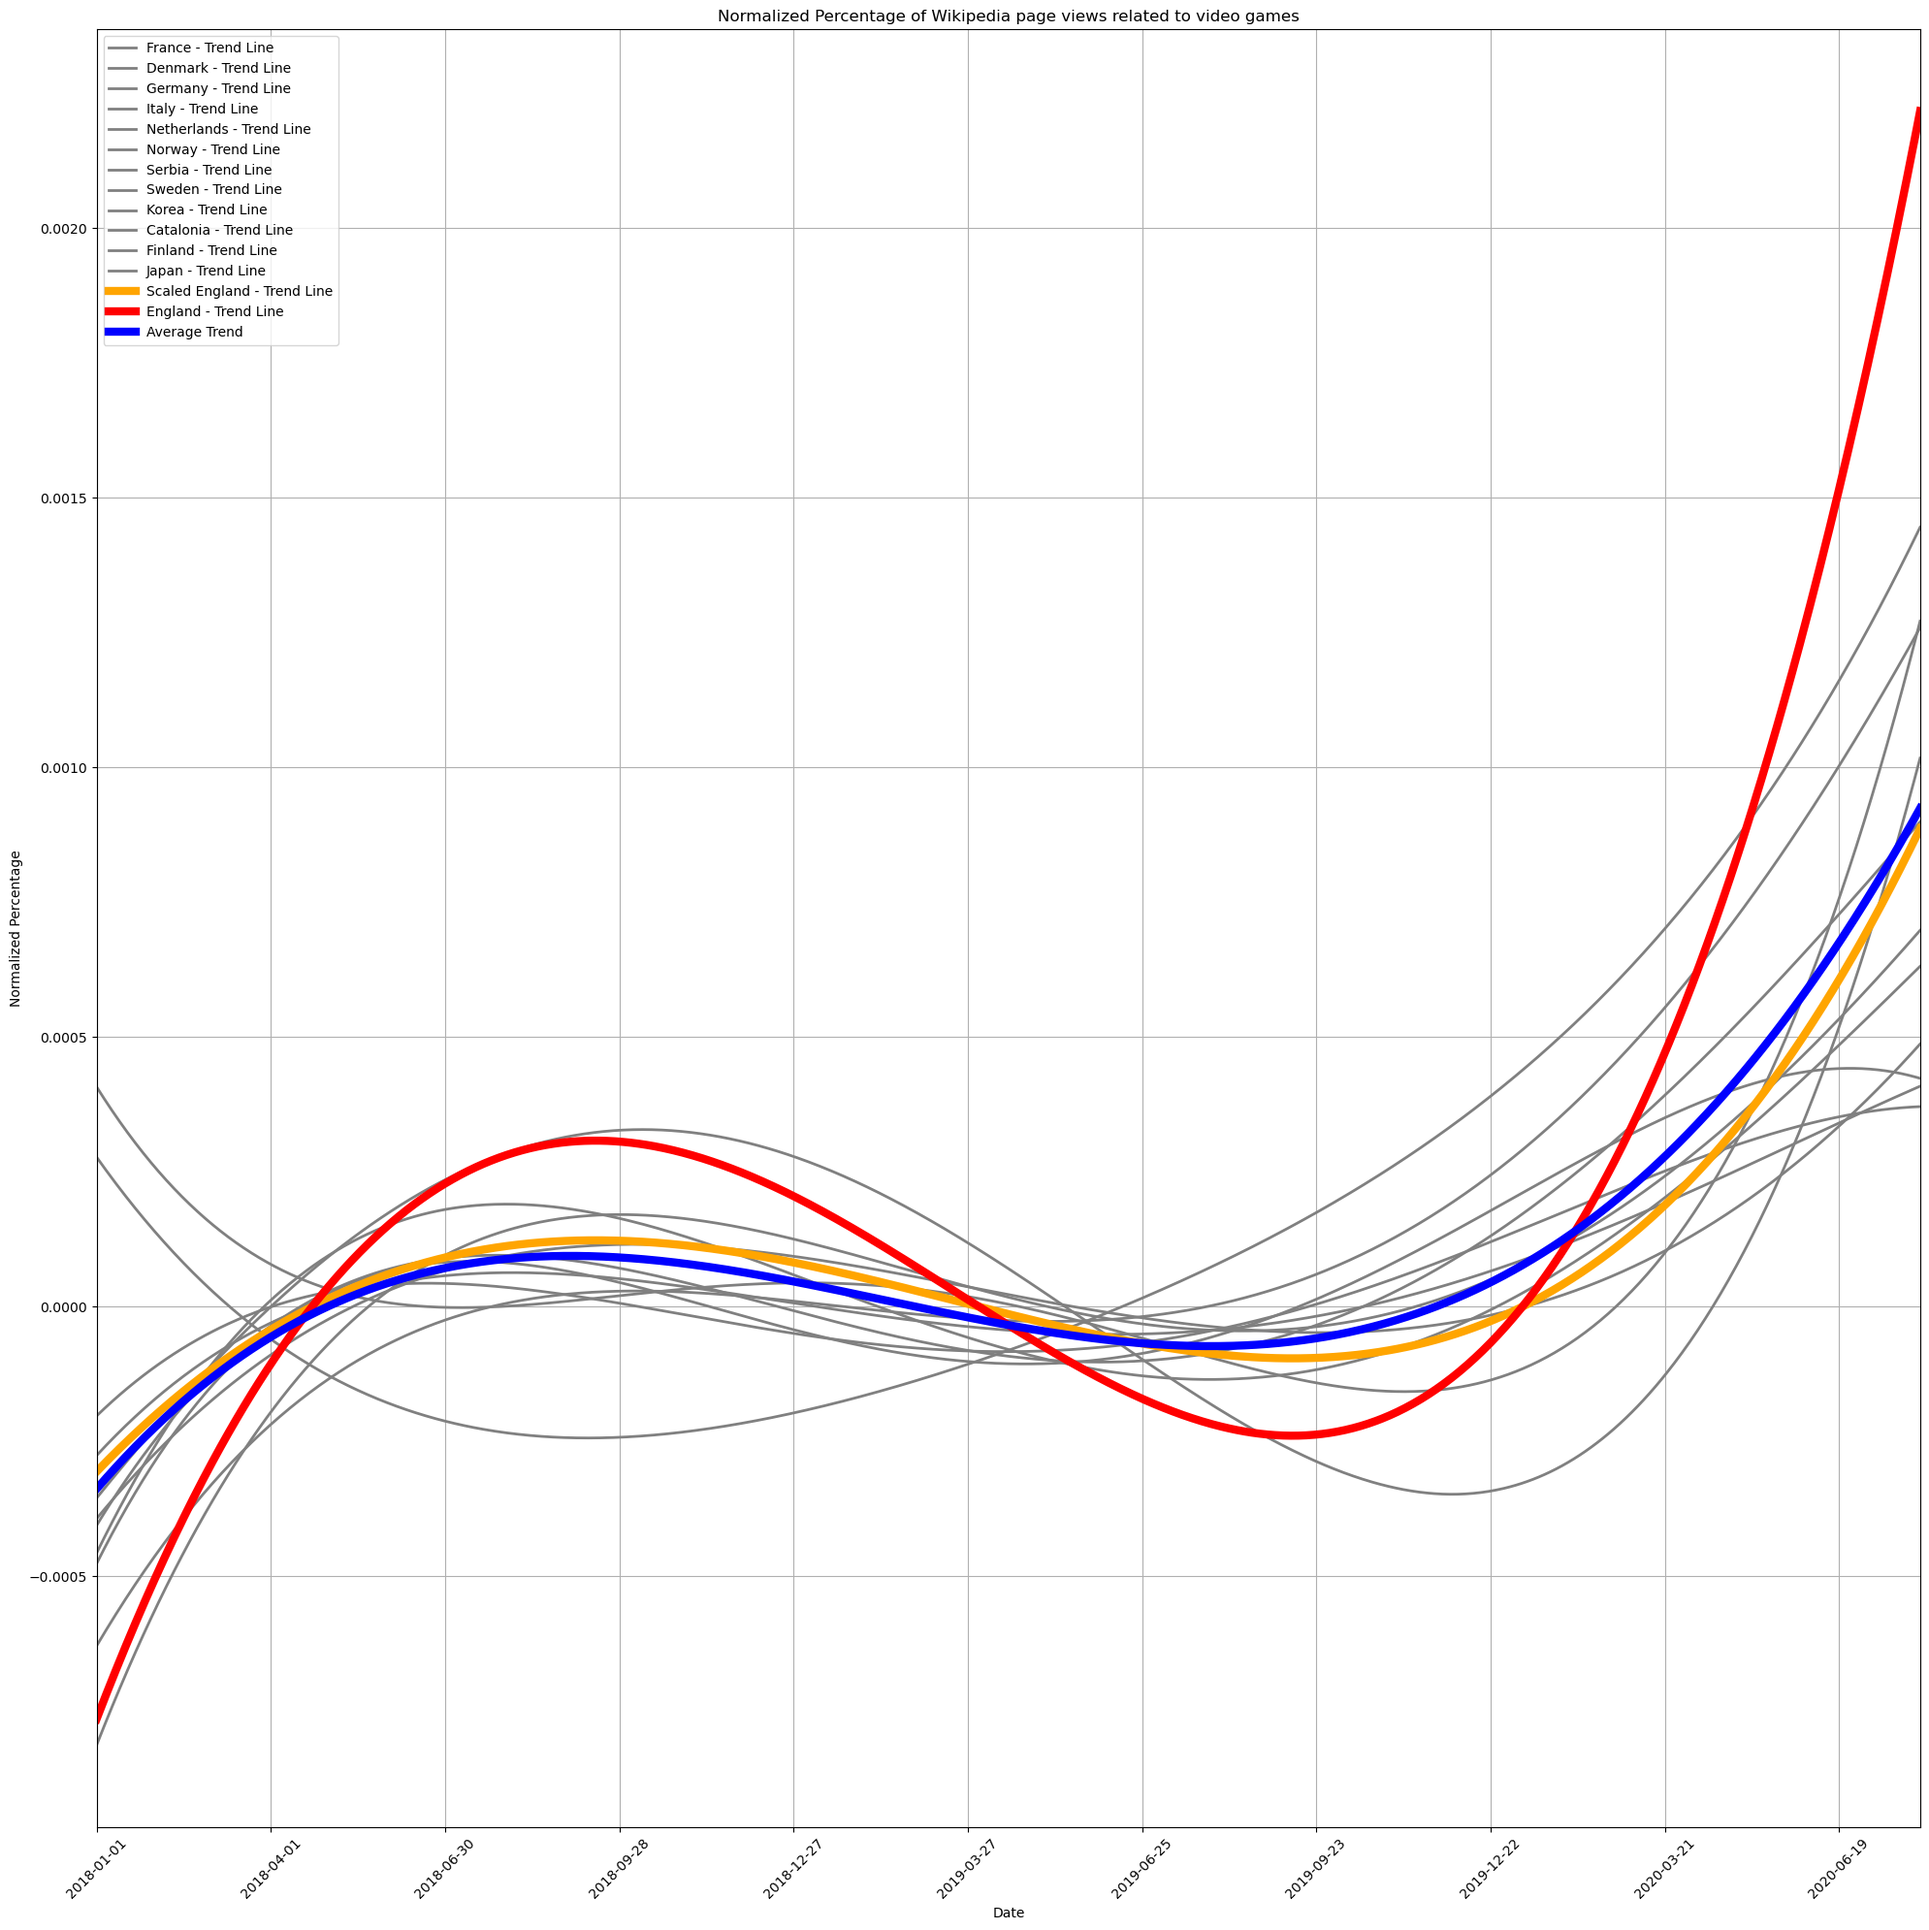
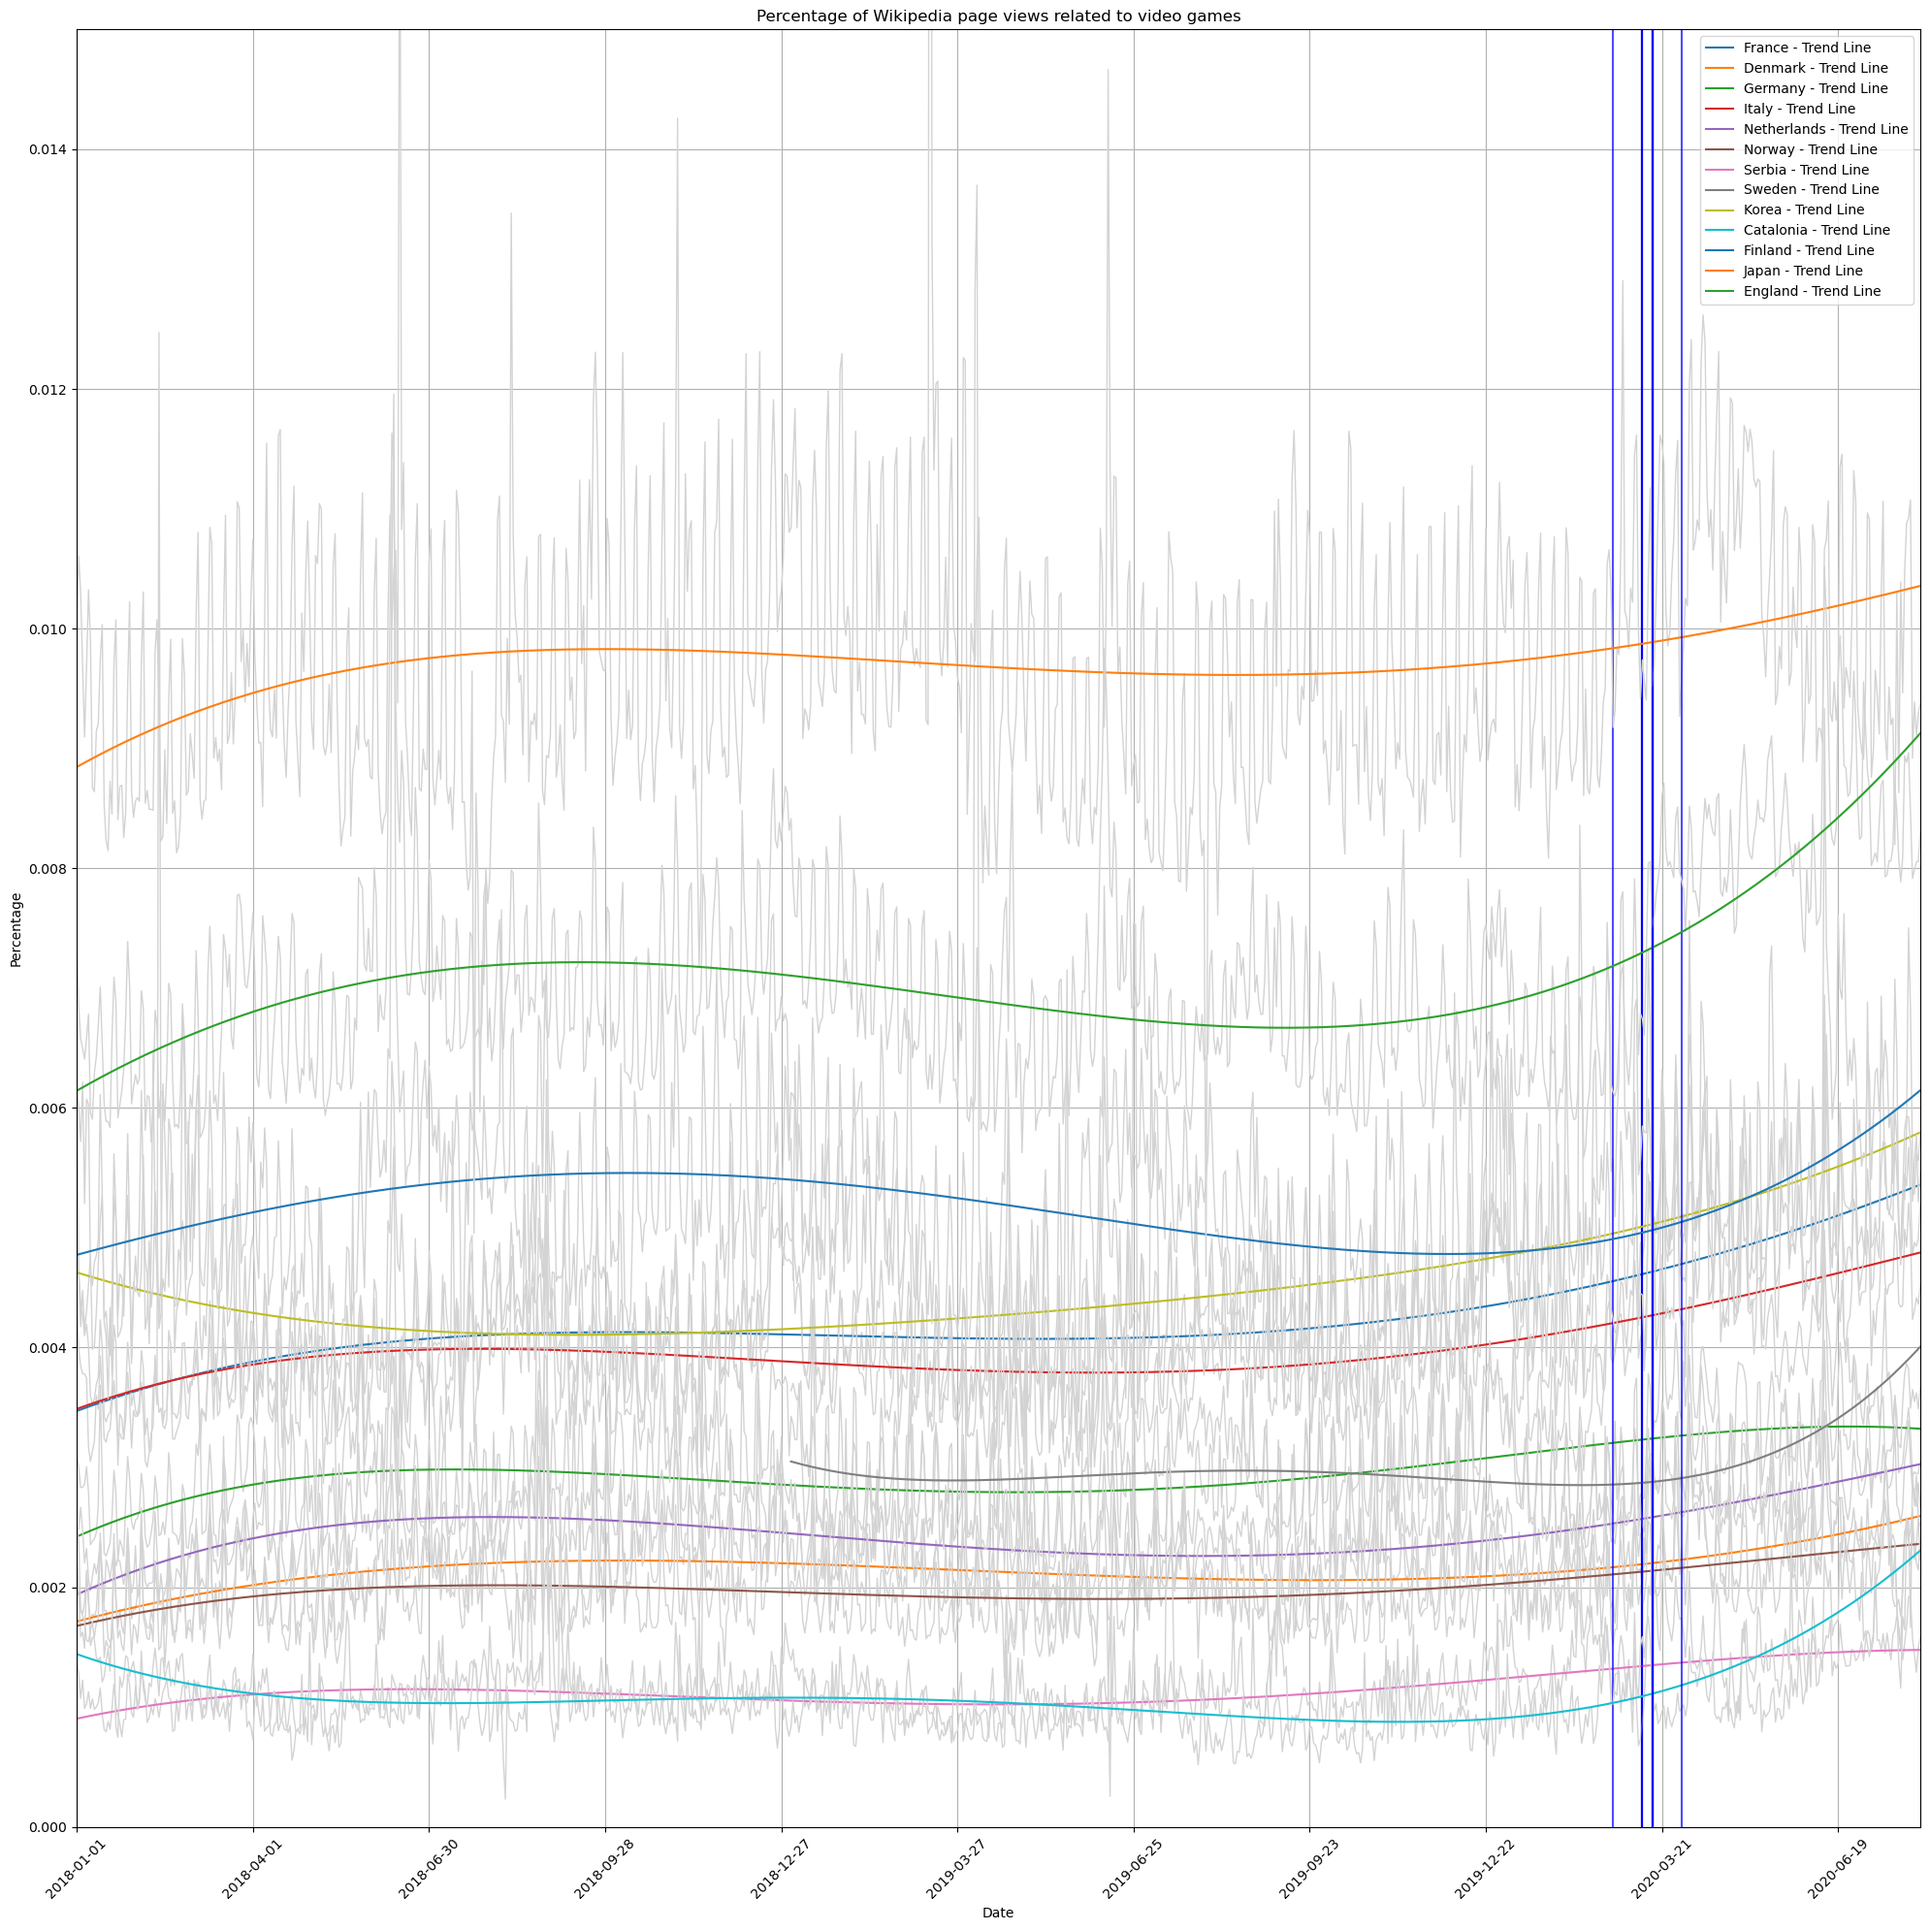
.

diff --git a/Relation_mobility_pages.md b/Relation_mobility_pages.md
@@ -53,11 +53,23 @@ Unsurprisingly, the lockdown in Great Britain is not representative of the avera
 
 ![Branching](Website_Images/En_vs_All_mobility.png)
 
-At first glance, the english wikipedia pages do not seem to be a reliable estimate of the average video game popularity of all countries as it has very often the highest or lowest value. However when we scale down the english page views (two and a half times) we end up with the orange curve which is extremely similar to the average. This shows that english wikipedia pages (when tones down) are quite reliable when trying to estimate the global average.
+At first glance, the english wikipedia pages do not seem to be a reliable estimate of the average video game popularity of all countries as it has very often the highest or lowest value. However when we scale down the english page views (two and a half times) we end up with the orange curve which is extremely similar to the average. This shows that english wikipedia pages (when toned down) are quite reliable when trying to estimate the global average.
 
-![Branching](Website_Images/Percent_pageviews.png)
+![Branching](Website_Images/percent_pageviews_normalized.png)
 
+Obviously the COVID-19 lockdown increased the page views related to video games, but we can also see below that video games increased more relatively to other pages during the COVID-19 lockdown. Unfortunately we cannot see the longer lasting effect that COVID-19 had on the pageviews a few years after the lockdown due to the lack of data.
 
+![Branching](Website_Images/percent_pageviews.png)
+
+Furthermore, when we compare the trends individually, we can still match the english to be the average, no matter how restrictive the lockdown was. However it matches the semi_restrictive the best with a reduction of 2.5, while the reduction had to be adjusted for the restrictive and unrestrictive to 2.
+
+![Branching](Website_Images/Restrictive_2.png)
+![Branching](Website_Images/Semi_25.png)
+![Branching](Website_Images/Unrestrictive_2.png)
+
+This could be due to the fact that england had a semi-restrictive lockdown. But it can still represent the others' averages as many countries use enlish other than england.
+
+![Branching](Website_Images/Triple_mobility.png)
 
 
 # Bon j'ai changé ce que je veux dire jsp si ca peut etre utile ca dcp je laisse
